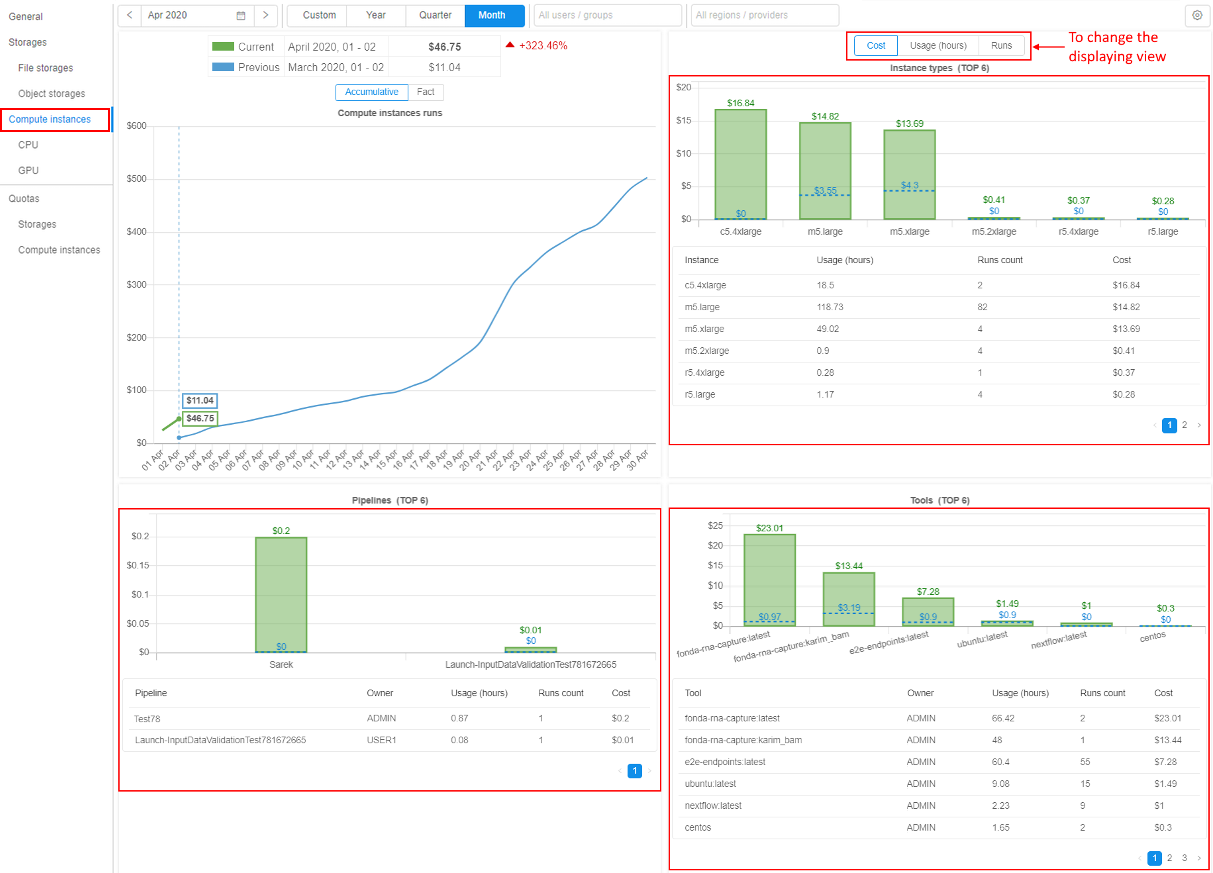
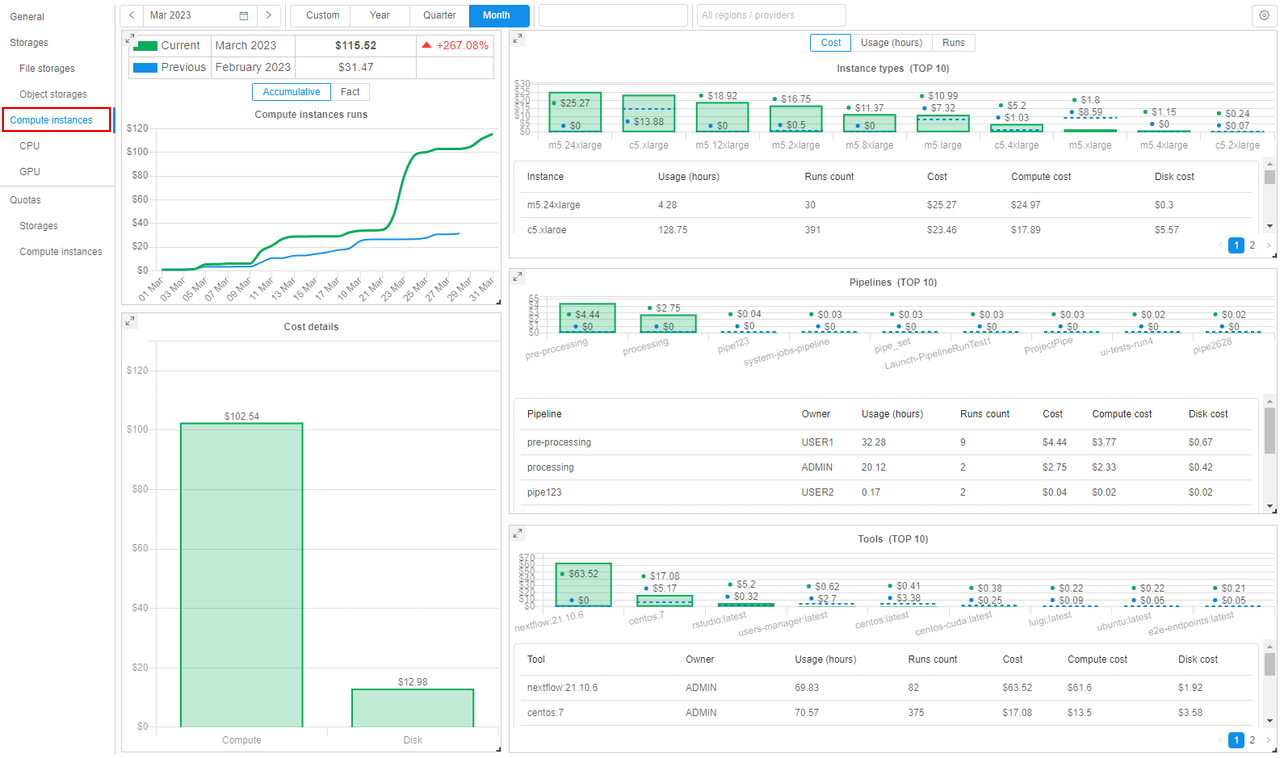
(Issue #3098) 'Runs cost layers in Billing' docs and RN were added

diff --git a/docs/md/manual/Appendix_D/Appendix_D._Costs_management.md b/docs/md/manual/Appendix_D/Appendix_D._Costs_management.md
@@ -17,6 +17,7 @@
             - [File storages report](#file-storages-report)
             - [Object storages report](#object-storages-report)
         - [Compute instances report](#compute-instances-report)
+            - [CPU/GPU division](#cpugpu-division)
     - [Export reports](#export-billling-reports)
     - [Report aggregation level according to the permissions](#report-aggregation-level-according-to-the-permissions)
 
@@ -345,7 +346,7 @@ Object storages report has the view (set of forms) distinct from [common storage
 Report includes:
 
 - General report table with summary costs for all used object storages during the selected and previous (_if it's available_) periods
-- The summary _Object storages_ spendings diagram over the _current_ and the _previous_ time periods according to selected configurations in the toolbar.  
+- **_Object storages usages_** - the summary spendings diagram over the _current_ and the _previous_ time periods according to selected configurations in the toolbar.  
     This data can be displayed:  
     - with the accumulation (as _line chart_).  
     Solid lines show summary spendings on the data usage for _current version_ of object storages (for _current_ and _previous_ periods).
@@ -356,12 +357,12 @@ Report includes:
     - or as fact (as _bar chart_ with actual spending values in each time point of the period without accumulation).
     Each bar is displayed as a stack of _current version_ spendings / _old versions_ spendings in the specific time point. _Current version_ spendings are shown with solid filling, _old versions_ spendings are shown without filling. For _current_ and _previous_ periods charts are shown in different colors.  
     ![CP_AppendixD](attachments/Costs_management_35.png)
-- The spendings bar chart with top `N` most costly object storages used during the selected period compared with the _previous_ one (_if it's available_).  
+- **_Object storages_** - the bar chart with top `N` most costly object storages used during the selected period compared with the _previous_ one (_if it's available_).  
     Each bar is displayed as a stack of _current version_ spendings / _old versions_ spendings of the specific object storage. _Current version_ spendings are shown with solid filling, _old versions_ spendings are shown without filling. For _previous_ period, charts are shown in different colors and only as dashed lines.  
     ![CP_AppendixD](attachments/Costs_management_36.png)  
     If data in the storage is storing in different tiers (archive types), this can be viewed in a tooltip - there will be a division of spendings by the used tiers. Versions division for each tier will be shown as well, e.g.:  
     ![CP_AppendixD](attachments/Costs_management_37.png)  
-- The spendings bar chart with division to different tiers (archive types). This chart does not contain any information for _previous_ period. Only layers used for data storing in the _current_ period according to selected filters are shown. Up to 4 layers can be here: `Standard`, `Glacier`, `Glacier IR`, `Deep Archive`. If any layer has _old versions_ - this will be shown as a stack of _current version_ spendings / _old versions_ spendings for that layer. _Current version_ spendings are shown with solid filling, _old versions_ spendings are shown without filling, e.g.:  
+- **_Object storages layers_** - the bar chart with cost division to different tiers (archive types). This chart does not contain any information for _previous_ period. Only layers used for data storing in the _current_ period according to selected filters are shown. Up to 4 layers can be here: `Standard`, `Glacier`, `Glacier IR`, `Deep Archive`. If any layer has _old versions_ - this will be shown as a stack of _current version_ spendings / _old versions_ spendings for that layer. _Current version_ spendings are shown with solid filling, _old versions_ spendings are shown without filling, e.g.:  
     ![CP_AppendixD](attachments/Costs_management_38.png)  
     Object storage layers chart can show the information as storages usage costs - in `$` (default, see the picture above) or as average storages volumes - in `Gb`:  
     ![CP_AppendixD](attachments/Costs_management_39.png)  
@@ -395,29 +396,75 @@ To clear selection of the object storage layer - click it again or click the cro
 To get info/charts of summary spendings in the selected period only for the _Compute instances_ resource group (costs of the launching instances for running tools/pipelines) you can click the corresponding item of the menu in the left side of the page:  
     ![CP_AppendixD](attachments/Costs_management_15.png)
 
-In this case, the summary costs for all launched instances during the selected period by selected users/Billing center will be calculated and displayed (launched tools/pipelines and both instance types - CPU/GPU).
-
-In the appeared page, you can see:
-
-- General report table with summary costs for all runs launched in the selected and previous (_if it's available_) periods
-- The summary _Compute instances_ spendings diagram over the current and the previous time periods according to selected configurations in the toolbar. This data could be displayed with the accumulation (as _line chart_) or as fact (as _bar chart_ with actual spending values in each time point of the period without accumulation)
-- The spendings bar chart with top `N` most costly instance types launched in the selected period compared to the previous one (_if it's available_)
-    - The detailed spendings table under that chart with the _full_ list of launched instance types in the selected period
-- The spendings bar chart with top `N` most costly tools launched in the selected period compared to the previous one (_if it's available_)
-    - The detailed spendings table under that chart with the _full_ list of launched tools in the selected period
-- The spendings bar chart with top `N` most costly pipelines launched in the selected period compared to the previous one (_if it's available_)
-    - The detailed spendings table under that chart with the full list of launched pipelines in the selected period
-- Additional control that allows to change displaying of spendings bar charts with the following possible values:
-    - **cost** (default) - on 3 above described bar charts top `N` most costly objects (instance types, tools, pipelines) are displayed. Data Unit - _currency_
-    - **usage** - on 3 above described bar charts top `N` most involved objects (instance types, tools, pipelines) are displayed. Data Unit - _usage hours_
-    - **runs** - on 3 above described bar charts top `N` objects (instance types, tools, pipelines) with the largest runs count are displayed. Data Unit - _runs count_
-
-Example:  
+In this case, the summary costs for all launched runs during the selected period by selected users/Billing center will be calculated and displayed - uniting launched tools/pipelines of both processing unit types (CPU/GPU):  
     ![CP_AppendixD](attachments/Costs_management_16.png)
 
-By default, in this form there isn't the division by workload type (CPU/GPU). All data is calculated and displayed summary for both types.  
-If you want to view costs only for instances with the specific workload type - you can select the corresponding one in the menu at the left side of the page.  
-E.g., for CPU:  
+At the appeared page, you can see:
+
+- General report table with summary costs for all runs launched in the selected and previous (_if it's available_) periods
+- **_Compute instances runs_** - the summary spendings chart over the current and the previous time periods according to selected configurations in the toolbar. This data can be displayed:  
+    - with the accumulation (as _line chart_)  
+    ![CP_AppendixD](attachments/Costs_management_53.png)
+    - or as fact (as _bar chart_ with actual spending values in each time point of the period without accumulation)  
+    ![CP_AppendixD](attachments/Costs_management_54.png)
+- **_Cost details_** - the bar chart that displays the sharing of the cost of runs launched during the selected period into layers - `Compute` (cost of compute instances used in runs) and `Disk` (cost of EBS drives connected to runs during their performing):  
+    ![CP_AppendixD](attachments/Costs_management_55.png)
+- **_Instance types_** - the bar chart with top `N` most costly instance types launched in the selected period compared to the previous one (_if it's available_), e.g.:  
+    ![CP_AppendixD](attachments/Costs_management_56.png)  
+    Under the chart, there is a detailed spendings table with the _full_ list of launched instance types (not only top `N`) during the selected period.  
+    This table contains the following info for each instance type:  
+    - **Instance** - instance type name
+    - **Usage (hours)** - summary number of hours that instances of this type were run
+    - **Runs count** - summary number of this instance type's runs
+    - **Cost** - summary cost of this instance type's runs
+    - **Compute cost** - separately the compute cost as part of summary runs cost
+    - **Disk cost** - separately the disk (EBS drives) cost as part of summary runs cost
+- **_Pipelines_** - the bar chart with top `N` most costly pipelines launched in the selected period compared to the previous one (_if it's available_), e.g.:  
+    ![CP_AppendixD](attachments/Costs_management_57.png)  
+    Under the chart, there is a detailed spendings table with the _full_ list of launched pipelines (not only top `N`) during the selected period.  
+    This table contains the following info for each pipeline:  
+    - **Pipeline** - pipeline name
+    - **Owner** - pipeline owner's username
+    - **Usage (hours)** - summary number of hours this pipeline was run
+    - **Runs count** - summary number of this pipeline's runs
+    - **Cost** - summary cost of this pipeline's runs
+    - **Compute cost** - separately the compute cost as part of summary runs cost of this pipeline
+    - **Disk cost** - separately the disk (EBS drives) cost as part of summary runs cost of this pipeline
+- **_Tools_** - the bar chart with top `N` most costly tools launched in the selected period compared to the previous one (_if it's available_), e.g.:  
+    ![CP_AppendixD](attachments/Costs_management_58.png)  
+    Under the chart, there is a detailed spendings table with the _full_ list of launched tools (not only top `N`) during the selected period.  
+    This table contains the following info for each tool:  
+    - **Tool** - tool name
+    - **Owner** - tool owner's username
+    - **Usage (hours)** - summary number of hours this tool was run
+    - **Runs count** - summary number of this tool's runs
+    - **Cost** - summary cost of this tool's runs
+    - **Compute cost** - separately the compute cost as part of summary runs cost of this tool
+    - **Disk cost** - separately the disk (EBS drives) cost as part of summary runs cost of this tool
+- Additional control that allows to change displaying of spendings bar charts (**_Instance types_**, **_Pipelines_**, **_Tools_**) with the following possible values:  
+    - **Cost** (_default_) - at 3 above described bar charts, top `N` most costly objects (instance types, pipelines, tools) are displayed. Data Unit - _currency_
+    - **Usage (hours)** - at 3 above described bar charts, top `N` most involved objects (instance types, pipelines, tools) are displayed. Data Unit - _usage hours_
+    - **Runs** - at 3 above described bar charts, top `N` objects (instance types, pipelines, tools) with the largest runs number are displayed. Data Unit - _runs count_  
+    For example, the **_Instance types_** chart in case when "**Usage (hours)**" displaying type is selected:  
+    ![CP_AppendixD](attachments/Costs_management_59.png)  
+    > Please note, this control changes only the chart view, but the data in tables under charts is not changed - only column is being changed by which tables are sorted.
+
+User can select one of the runs cost layers (`Compute` or `Disk`) - by click it in the **_Cost details_** chart.  
+In this case:
+
+- charts **_Instance types_**, **_Pipelines_**, **_Tools_** will be updated - only spendings, that correspond to the selected layer will be shown
+- data in tables under charts will not be changed, but the sorting column will be set the same as the selected layer
+
+For example, if the `Compute` layer of the runs cost is selected:  
+    ![CP_AppendixD](attachments/Costs_management_60.png)
+
+To clear selection of the runs cost layer - click it again or click the cross-button near the layer label in the top of the **_Cost details_** chart.
+
+##### CPU/GPU division
+
+By default, in **Compute instances** report form there is no division by processing unit type (CPU/GPU). All data is calculated and displayed summary for both types.  
+To view costs only for instances with the specific processing unit's type - select the corresponding one in the menu at the left side of the **Billing** page.  
+E.g., for CPU only:  
     ![CP_AppendixD](attachments/Costs_management_17.png)
 
 ### Export billling reports

diff --git a/docs/md/release_notes/v.0.17/v.0.17_-_Release_notes.md b/docs/md/release_notes/v.0.17/v.0.17_-_Release_notes.md
@@ -166,6 +166,29 @@ Also, shown spendings/data volume will be related only to files in the selected 
 For example, `Glasier IR` was selected:  
     ![CP_v.0.17_ReleaseNotes](attachments/RN017_BillingEnhancements_20.png)
 
+### Spendings in runs cost layers
+
+From the current version, the **Compute instances** report (and sub-reports - for CPU/GPU) supports the displaying of the runs cost division into layers:
+
+- `Compute` - cost of compute instances used in runs
+- `Disk` - cost of EBS drives connected to runs during their performing
+
+This information is shown on the new **_Cost details_** chart - bar chart with division to these layers. This chart does not contain any information for _previous_ period - only cost of runs' layers in the _current_ period according to selected filters are shown.
+
+![CP_v.0.17_ReleaseNotes](attachments/RN017_BillingEnhancements_22.png)
+
+Additionally, information about cost division are shown in details tables under charts **_Instance types_**, **_Pipelines_**, **_Tools_** - as separate columns, e.g.:  
+    ![CP_v.0.17_ReleaseNotes](attachments/RN017_BillingEnhancements_23.png)
+
+User can select one of the runs cost layers - by click it in the **_Cost details_** chart.  
+In this case:
+
+- charts **_Instance types_**, **_Pipelines_**, **_Tools_** will be updated - only spendings, that correspond to the selected layer will be shown
+- data in tables under charts will not be changed, but the sorting column will be set the same as the selected layer
+
+For example, if the `Compute` layer of the runs cost is selected:  
+    ![CP_v.0.17_ReleaseNotes](attachments/RN017_BillingEnhancements_24.png)
+
 ### Displaying different user's attributes in the Billing reports
 
 Previously, in all the **Billing reports**, info about users was displayed as user ID only. In some cases, it would be more convenient to display user names or emails - to take a more readable form.

diff --git a/docs/md/manual/12_Manage_Settings/12.15._System_jobs.md b/docs/md/manual/12_Manage_Settings/12.15._System_jobs.md
@@ -23,13 +23,13 @@ In a nutshell, the approach to perform the System jobs is the following:
         - `Kubernetes` service account to perform `kubectl` commands from such pipeline during the system job run
         - special assign policy that allows to assign the pipeline to one of the running system node (`MASTER` node, for example). It is convenient as no additional instances (waiting or initializing ones) are required to perform a job
     - prepared special docker image that includes pre-installed packages such as system packages (`curl`, `nano`, `git`, etc.), `kubectl`, `pipe` CLI, Cloud CLI (`AWS`/`Azure`/`GCP`), `LustreFS` client
-2. When admin launches a system job - the system instance according to specified assign policy (`MASTER` instance, by default) is found for the system job pipeine performing
+2. When admin launches a system job - the system instance according to specified assign policy (`MASTER` instance, by default) is found for the system job pipeline performing
 3. At the selected system instance, the docker-container is launched from the special docker-image for system jobs
 4. In the launched docker-container, the system job script is being performed
 
 ### Configuration
 
-The following System Preferences are currently used to configure the System jobs behavior:
+The following System Preferences are currently used to configure the System jobs behaviour:
 
 - **`system.jobs.pipeline.id`** - ID of the prepared system pipeline that contains system jobs scripts
 - **`system.jobs.scripts.location`** - path to the system scripts directory inside the pipeline repo. Default value is `src/system-jobs`

diff --git a/docs/md/manual/12_Manage_Settings/12.11._Advanced_features.md b/docs/md/manual/12_Manage_Settings/12.11._Advanced_features.md
@@ -340,9 +340,9 @@ In the example below, we will create the Profile with Read/Write access to `AWS`
 
 > Please note this functionality is currently available only for `AWS`
 
-If there are not enough instances of specified type to launch a run in one region - Cloud Pipeline can automatically try to launch identical instance in another region(s) of the same Cloud Provider.
+If there are not enough instances of specified type to launch a run in one region - Cloud Pipeline can automatically try to launch identical instance in other region(s) of the same Cloud Provider.
 
-This behavior is defined by the special Cloud Region setting - "**Run shift policy**":  
+This behaviour is defined by the special Cloud Region setting - "**Run shift policy**":  
     ![CP_AdvancedFeatures](attachments/AdvancedFeatures_39.png)  
 
 The switching region procedure looks like:
